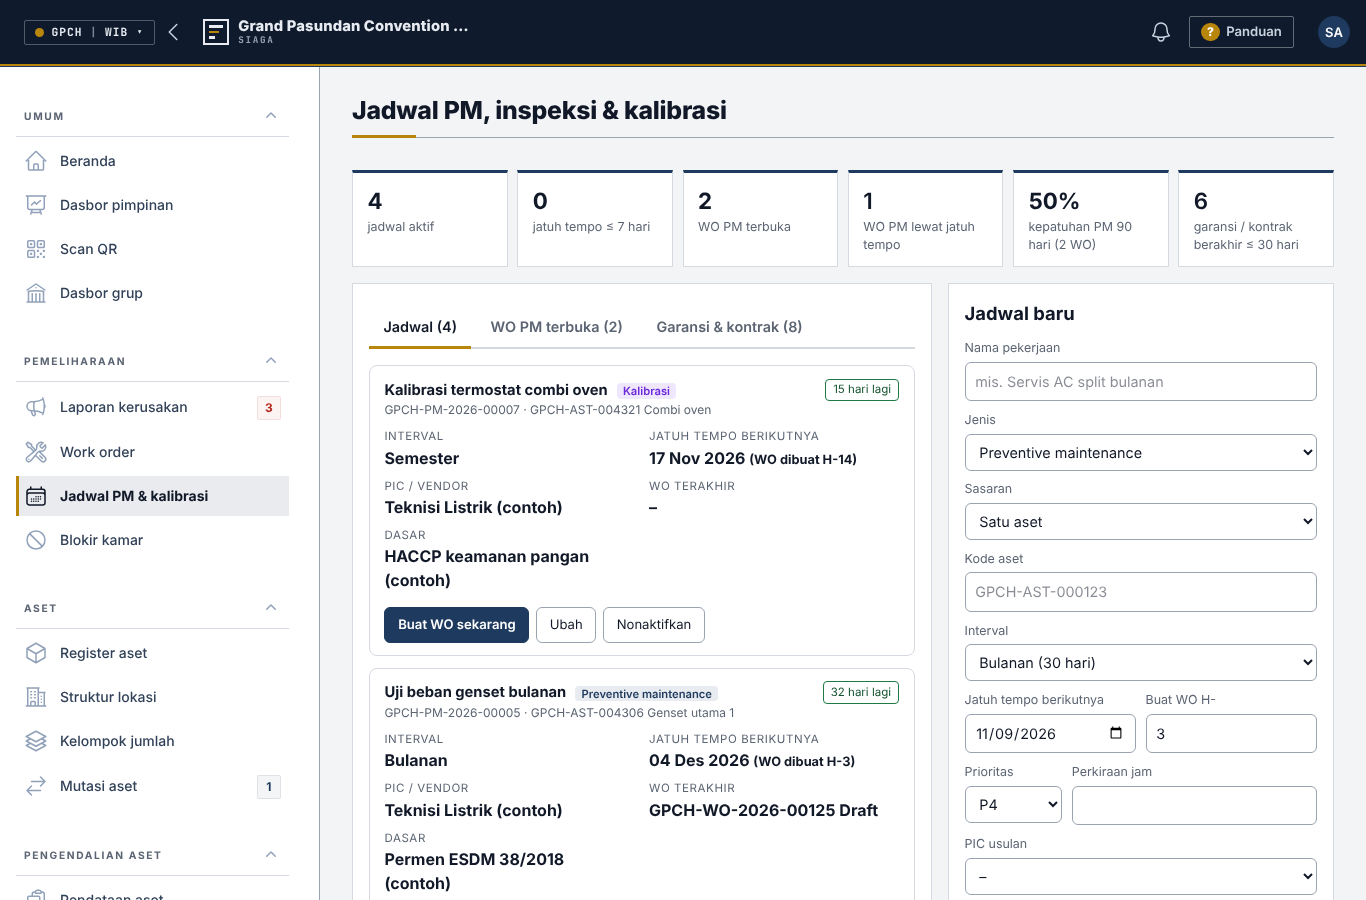
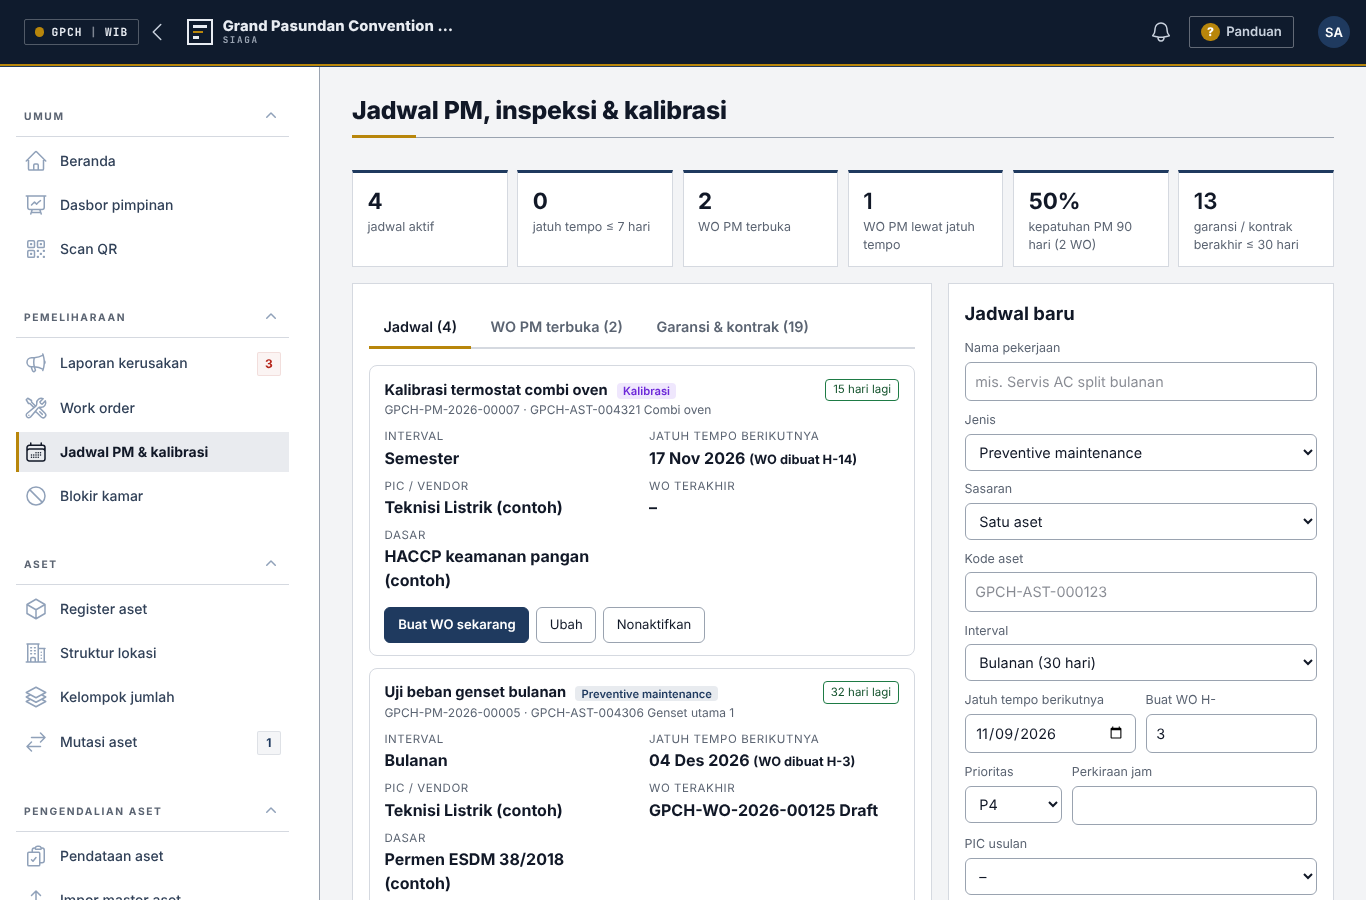
Landing page & panduan: fitur jadwal PM, penyusutan, stock opname, penghapusan, matriks lokasi, istilah per jenis usaha
Claude-Session: https://claude.ai/code/session_01B7oP2Fde9AGkim8Y5jbJ7W

diff --git a/public/css/landing.css b/public/css/landing.css
@@ -150,3 +150,4 @@ code { background: var(--bg2); padding: .1rem .35rem; border-radius: 4px; font-s
 .ln-tour-item.phone img { aspect-ratio: 9 / 15; object-position: top center; }
 .ln-tour-item figcaption { padding: .7rem .9rem; display: flex; flex-direction: column; gap: .15rem; }
 .ln-tour-item figcaption span { font-size: .85rem; color: var(--ink2); }
+.ln-small { font-size: .82rem; color: var(--ln-muted, #5b6472); margin-top: .5rem; font-family: ui-monospace, monospace; }

diff --git a/resources/views/landing/index.blade.php b/resources/views/landing/index.blade.php
@@ -77,8 +77,14 @@
                     'Blokir kamar diusulkan langsung dari work order, <b>dikonfirmasi Front Office</b>, dan dilepas setelah pekerjaan diverifikasi. Total <b>hari-kamar yang hilang</b> tampil di dasbor pimpinan.', 'help/img/room-blocks.png', 'Blokir kamar terkait perbaikan'],
                 ['Pimpinan memutuskan tanpa data', 'Laporan disusun manual, terlambat, dan angkanya tidak bisa ditelusuri. Tidak ada indikator baku seperti SLA, MTTR, atau backlog.',
                     '<b>Dasbor pimpinan</b> menampilkan kondisi A–E, aset berisiko dan nilai gantinya, SLA, MTTR, backlog, biaya per bulan, aset boros biaya, serta <b>sorotan otomatis</b>. Setiap angka bisa ditelusuri ke daftar sumbernya.', 'landing/dasbor.png', 'Dasbor pimpinan'],
+                ['Pemeliharaan baru dilakukan setelah rusak; kalibrasi dan garansi terlewat', 'Jadwal PM, inspeksi, dan kalibrasi ada di kepala orang atau di kalender pribadi. Tanggal habis garansi dan kontrak vendor tidak dipantau, sehingga klaim terlambat dan alat medis atau peralatan keselamatan lewat masa kalibrasi.',
+                    '<b>Jadwal PM, inspeksi & kalibrasi</b> per aset atau per kelompok (mis. semua detektor asap di satu lantai). Setiap pagi SIAGA <b>membuat work order otomatis</b> sebelum jatuh tempo, menghitung <b>kepatuhan PM</b>, dan mengingatkan <b>garansi & kontrak</b> H-30 dan H-7.', 'help/img/jadwal-pm.png', 'Jadwal PM, inspeksi & kalibrasi'],
+                ['Nilai buku aset tidak cocok dengan laporan keuangan', 'Penyusutan dihitung terpisah di spreadsheet keuangan, sementara register aset ada di bagian lain. Aset yang sudah rusak, hilang, atau dijual masih tercatat. Auditor menemukan selisih setiap tahun.',
+                    '<b>Penyusutan & nilai buku</b> (PSAK 16): garis lurus atau saldo menurun, masa manfaat per kategori, <b>usulan jurnal</b> per bulan, dan ekspor Excel daftar aset tetap. Filter per lokasi atau per badan usaha (PT).', 'help/img/penyusutan.png', 'Penyusutan & nilai buku'],
+                ['Aset hilang dari catatan tanpa jejak', 'Pemeriksaan fisik (stock opname) jarang tuntas karena dicocokkan manual. Aset rusak dibuang atau dijual tanpa persetujuan dan tanpa berita acara.',
+                    '<b>Stock opname</b> per lokasi dengan scan QR: ditemukan, pindah lokasi, tidak ditemukan, temuan baru, lalu <b>berita acara</b>. <b>Penghapusan aset</b> diusulkan dan disetujui orang yang berbeda, nilai buku dibekukan, laba-rugi pelepasan dihitung.', 'help/img/stock-opname.png', 'Stock opname dengan scan QR'],
                 ['Tidak jelas siapa mengubah apa', 'File dibagikan tanpa hak akses. Perubahan data tidak tercatat, sehingga sulit diaudit dan mudah disalahgunakan.',
-                    '<b>17 peran dan 36 izin</b> (tolak secara bawaan), <b>log audit</b> setiap perubahan, wajib ganti sandi, batas percobaan login, dan verifikasi dua langkah.', 'help/img/roles.png', 'Peran dan izin'],
+                    '<b>17 peran dan 41 izin</b> (tolak secara bawaan), <b>log audit</b> setiap perubahan, wajib ganti sandi, batas percobaan login, dan verifikasi dua langkah.', 'help/img/roles.png', 'Peran dan izin'],
             ];
         @endphp
         <div class="ln-psr">
@@ -189,6 +195,10 @@ window.addEventListener('DOMContentLoaded', function () {
                 ['landing/tur-lapor-hp.png', 'Lapor kerusakan', 'Pilih aset atau lokasi, tulis gejala, foto. Selesai.', 'phone'],
                 ['landing/tur-label.png', 'Cetak label QR', 'Langsung ke printer portable Bluetooth atau lembar A4.', 'wide'],
                 ['landing/dasbor-biaya.png', 'Biaya & dampak', 'Biaya per bulan, per kategori, dan hari-kamar yang hilang.', 'wide'],
+                ['help/img/struktur-lokasi-matriks.png', 'Matriks lokasi × jenis barang', 'Barang jenis apa ada di mana, per gedung, lantai, atau ruang.', 'wide'],
+                ['help/img/jadwal-pm.png', 'Jadwal PM & kalibrasi', 'WO otomatis sebelum jatuh tempo, kepatuhan PM, pengingat garansi.', 'wide'],
+                ['help/img/penyusutan.png', 'Penyusutan & nilai buku', 'Nilai buku per kategori, usulan jurnal, ekspor Excel.', 'wide'],
+                ['help/img/stock-opname.png', 'Stock opname', 'Hitung fisik per lokasi dengan scan QR, lalu berita acara.', 'wide'],
             ];
         @endphp
         <div class="ln-tour">
@@ -207,16 +217,17 @@ window.addEventListener('DOMContentLoaded', function () {
         <h2>Manfaat untuk setiap peran</h2>
         <div class="ln-grid ln-grid-4">
             <div class="ln-card"><h3>Pimpinan</h3><ul><li>Sorotan otomatis: aset berisiko, SLA, aset yang lebih murah diganti</li><li>Filter per gedung, rumah sakit, atau wilayah outlet</li><li>Cetak dasbor untuk rapat</li></ul></div>
-            <div class="ln-card"><h3>Engineering / IPSRS</h3><ul><li>Antrian kerja per prioritas dan target waktu</li><li>Riwayat lengkap tiap aset dari scan QR</li><li>Kerusakan berulang terlihat jelas</li></ul></div>
-            <div class="ln-card"><h3>Keuangan &amp; aset</h3><ul><li>Nilai aset dan biaya pemeliharaan per aset</li><li>Persetujuan biaya berjenjang sesuai batas</li><li>Mutasi aset tercatat dan bisa diaudit</li></ul></div>
+            <div class="ln-card"><h3>Engineering / IPSRS</h3><ul><li>Antrian kerja per prioritas dan target waktu</li><li>Riwayat lengkap tiap aset dari scan QR</li><li>Kerusakan berulang terlihat jelas</li><li>WO PM &amp; kalibrasi dibuat otomatis</li></ul></div>
+            <div class="ln-card"><h3>Keuangan &amp; aset</h3><ul><li>Nilai aset dan biaya pemeliharaan per aset</li><li>Persetujuan biaya berjenjang sesuai batas</li><li>Mutasi aset tercatat dan bisa diaudit</li><li>Penyusutan, stock opname &amp; penghapusan aset</li></ul></div>
             <div class="ln-card"><h3>Staf pelapor</h3><ul><li>Lapor dari HP dalam hitungan detik</li><li>Status laporan bisa dipantau</li><li>Tidak perlu pelatihan panjang</li></ul></div>
         </div>
         <h2 class="ln-mt">Satu aplikasi, beragam industri</h2>
         <div class="ln-grid ln-grid-3">
-            <div class="ln-card ln-ind"><h3>Hotel &amp; MICE</h3><p>Kamar per tipe, ruang meeting, kitchen, laundry, power house. Blokir kamar tidak terjual saat perbaikan.</p></div>
-            <div class="ln-card ln-ind"><h3>Rumah sakit</h3><p>Kamar rawat inap per kelas, IGD, ICU, NICU, bedah sentral, radiologi, hemodialisa. Alat medis, kalibrasi, gas medis.</p></div>
-            <div class="ln-card ln-ind"><h3>Apotek, klinik &amp; lab</h3><p>Puluhan outlet dengan isi standar per tipe, cold chain obat, POS kasir, alat klinik dan laboratorium.</p></div>
+            <div class="ln-card ln-ind"><h3>Hotel &amp; MICE</h3><p>Kamar per tipe, ruang meeting, kitchen, laundry, power house. Blokir kamar tidak terjual saat perbaikan.</p><p class="ln-small">Istilah: gedung › lantai › kamar · jenis kamar · blokir kamar</p></div>
+            <div class="ln-card ln-ind"><h3>Rumah sakit</h3><p>Kamar rawat inap per kelas, IGD, ICU, NICU, bedah sentral, radiologi, hemodialisa. Alat medis, kalibrasi, gas medis. Grup dengan beberapa PT pengelola RS.</p><p class="ln-small">Istilah: PT › RS › lantai › kamar · kelas perawatan · tutup kamar</p></div>
+            <div class="ln-card ln-ind"><h3>Apotek, klinik &amp; lab</h3><p>Puluhan outlet dengan isi standar per tipe, cold chain obat, POS kasir, alat klinik dan laboratorium.</p><p class="ln-small">Istilah: wilayah › rayon › outlet · format outlet · tutup outlet</p></div>
         </div>
+        <p class="ln-lead">Istilah di menu, layar, laporan, dan label QR mengikuti <b>jenis usaha</b> yang dipilih di profil perusahaan. Label outlet mencetak nama outlet, bukan "kamar". Setiap perusahaan atau grup hanya melihat datanya sendiri.</p>
     </div>
 </section>
 
@@ -231,10 +242,13 @@ window.addEventListener('DOMContentLoaded', function () {
                 <li>Praktik: lokasi, tipe kamar/ruang, template isi standar, impor master aset</li>
                 <li>Praktik lapangan: pendataan per kamar dengan Mobile Terminal &amp; printer portable</li>
                 <li>Cek kualitas data, selisih, dan aktivasi aset</li>
+                <li>Struktur lokasi &amp; matriks: barang jenis apa ada di mana</li>
             </ol></div>
             <div class="ln-card"><h3>Hari 2 · Operasi &amp; keputusan</h3><ol class="ln-agenda">
                 <li>Lapor kerusakan dari HP, triase, prioritas &amp; SLA</li>
                 <li>Work order: penugasan, persetujuan biaya, verifikasi, blokir kamar, mutasi aset</li>
+                <li>Jadwal PM, inspeksi &amp; kalibrasi; pengingat garansi dan kontrak</li>
+                <li>Penyusutan, stock opname &amp; penghapusan aset bersama keuangan dan auditor</li>
                 <li>Dasbor pimpinan &amp; laporan: membaca angka untuk keputusan perbaiki atau ganti</li>
                 <li>Rencana implementasi 8 minggu: organisasi, RACI, komunikasi, risiko, pengadaan</li>
                 <li>Rencana tindak lanjut di perusahaan peserta</li>

diff --git a/PANDUAN-LARAGON.md b/PANDUAN-LARAGON.md
@@ -109,6 +109,18 @@ Panduan rinci tiap layar ada di tombol **? Panduan** pojok kanan atas aplikasi.
 | `php artisan test` | Uji otomatis (butuh `composer install` dan database `asset_care_test`) |
 | `php artisan optimize:clear` | Bersihkan cache setelah mengubah `.env` |
 
+## Memperbarui ke rilis baru
+
+Ekstrak zip baru menimpa folder lama (`.env` tidak ikut tertimpa), lalu:
+
+```bash
+php artisan migrate --force
+php artisan db:seed --class=Database\Seeders\ReferenceSeeder --force
+php artisan optimize:clear
+```
+
+**Situs demo yang sudah berjalan:** setelah `update`, jalankan juga `php artisan siaga:demo-data all --force`. Perusahaan yang sudah ada tidak digandakan; contoh stock opname, penghapusan aset, jadwal PM, dan badan usaha (Hermina) ditambahkan. Perusahaan yang belum ada dipasang.
+
 ## 9. Masalah umum
 
 | Gejala | Solusi |
@@ -129,7 +141,7 @@ Untuk calon peserta workshop: pasang di **database terpisah khusus demo**, lalu 
 php artisan siaga:demo-data all
 ```
 
-Perintah ini memasang tiga perusahaan demo terpisah (GPCH, Hermina Group dengan RS Kemayoran & Bekasi, Kimia Farma dengan jaringan apotek & klinik), masing-masing 1–3 menit. Setelah itu set `SIAGA_GUEST_MODE=true` di `.env` dan jalankan `php artisan config:cache`. Halaman depan (`/`) menampilkan landing page, pilihan data demo, dan tombol **Masuk sebagai tamu** (hanya melihat). Panduan bisa dibaca tanpa login di `/panduan`. **Jangan aktifkan mode tamu pada instalasi berisi data asli.**
+Perintah ini memasang tiga perusahaan demo terpisah, masing-masing 1–3 menit, dengan istilah sesuai jenis usahanya: GPCH (hotel: gedung › lantai › kamar), Hermina Group (rumah sakit: 2 PT contoh › RS Kemayoran & Bekasi › lantai › kamar), dan Kimia Farma (ritel: wilayah › rayon › outlet). Setiap sesi hanya melihat data satu perusahaan atau grup. Setelah itu set `SIAGA_GUEST_MODE=true` di `.env` dan jalankan `php artisan config:cache`. Halaman depan (`/`) menampilkan landing page, pilihan data demo, dan tombol **Masuk sebagai tamu** (hanya melihat). Panduan bisa dibaca tanpa login di `/panduan`. **Jangan aktifkan mode tamu pada instalasi berisi data asli.**
 
 **Hanya Grand Pasundan (GPCH):** `php artisan siaga:demo-data gpch --admin`. Hermina dan Kimia Farma tidak dipasang, dan akun Super Admin dipindah ke GPCH agar langsung melihat datanya. Perintah ini otomatis mengisi `.env` (`SIAGA_GUEST_MODE=true`, `ASSETCARE_PROPERTY_CODE=GPCH`) dan memperbarui cache konfigurasi, sehingga kotak **Coba SIAGA tanpa akun** dengan pilihan perusahaan dan tombol **Masuk sebagai tamu** langsung tampil di atas form login. Data demo yang sudah terpasang cukup jalankan ulang perintahnya (data tidak digandakan).
 

diff --git a/PANDUAN-CPANEL.md b/PANDUAN-CPANEL.md
@@ -191,6 +191,8 @@ Panduan rinci tiap layar ada di tombol **? Panduan** pojok kanan atas aplikasi.
    ```
    Skrip ini akan memasang mode maintenance, menjalankan migrasi, memperbarui data referensi, membangun ulang cache, lalu menonaktifkan maintenance. Akun dan data tidak berubah.
 
+**Situs demo yang sudah berjalan:** setelah `update`, jalankan juga `php artisan siaga:demo-data all --force`. Perusahaan yang sudah ada tidak digandakan; contoh stock opname, penghapusan aset, jadwal PM, dan badan usaha (Hermina) ditambahkan. Perusahaan yang belum ada dipasang.
+
 ## Memulihkan dari backup
 
 ```bash
@@ -270,7 +272,7 @@ Untuk calon peserta workshop: pasang di **database terpisah khusus demo**, lalu 
 bash deploy/deploy-cpanel.sh demo-site
 ```
 
-Perintah ini memasang tiga perusahaan demo terpisah (GPCH, Hermina Group dengan RS Kemayoran & Bekasi, Kimia Farma dengan jaringan apotek & klinik), masing-masing 1–3 menit. Setelah itu set `SIAGA_GUEST_MODE=true` di `.env` dan jalankan `php artisan config:cache`. Halaman depan (`/`) menampilkan landing page, pilihan data demo, dan tombol **Masuk sebagai tamu** (hanya melihat). Panduan bisa dibaca tanpa login di `/panduan`. **Jangan aktifkan mode tamu pada instalasi berisi data asli.**
+Perintah ini memasang tiga perusahaan demo terpisah, masing-masing 1–3 menit, dengan istilah sesuai jenis usahanya: GPCH (hotel: gedung › lantai › kamar), Hermina Group (rumah sakit: 2 PT contoh › RS Kemayoran & Bekasi › lantai › kamar), dan Kimia Farma (ritel: wilayah › rayon › outlet). Setiap sesi hanya melihat data satu perusahaan atau grup. Setelah itu set `SIAGA_GUEST_MODE=true` di `.env` dan jalankan `php artisan config:cache`. Halaman depan (`/`) menampilkan landing page, pilihan data demo, dan tombol **Masuk sebagai tamu** (hanya melihat). Panduan bisa dibaca tanpa login di `/panduan`. **Jangan aktifkan mode tamu pada instalasi berisi data asli.**
 
 **Hanya Grand Pasundan (GPCH):** `bash deploy/deploy-cpanel.sh demo-gpch` (setara `php artisan siaga:demo-data gpch --admin`). Hermina dan Kimia Farma tidak dipasang, dan akun Super Admin dipindah ke GPCH agar langsung melihat datanya. Perintah ini otomatis mengisi `.env` (`SIAGA_GUEST_MODE=true`, `ASSETCARE_PROPERTY_CODE=GPCH`) dan memperbarui cache konfigurasi, sehingga kotak **Coba SIAGA tanpa akun** dengan pilihan perusahaan dan tombol **Masuk sebagai tamu** langsung tampil di atas form login. Data demo yang sudah terpasang cukup jalankan ulang perintahnya (data tidak digandakan).
 

diff --git a/README.md b/README.md
@@ -113,7 +113,7 @@ Halaman depan bisa diaktifkan tanpa mode tamu dengan `SIAGA_LANDING=true`.
 
 ## Uji otomatis
 
-`composer install` lalu `php artisan test` (database `asset_care_test`) — 32 skenario, termasuk istilah per jenis usaha, termasuk jadwal PM & pengingat garansi, penyusutan, stock opname & penghapusan aset, landing page & masuk sebagai tamu, dasbor pimpinan, pendataan, impor master, panduan, instalasi hotel baru,
+`composer install` lalu `php artisan test` (database `asset_care_test`) — 32 skenario, termasuk istilah per jenis usaha, jadwal PM & pengingat garansi, penyusutan, stock opname & penghapusan aset, landing page & masuk sebagai tamu, dasbor pimpinan, pendataan, impor master, panduan, instalasi hotel baru,
 Profil hotel (nama, warna, logo, zona waktu), kode properti terkunci, validasi warna, dan tidak ada sisa merek lama.
 
 ## Catatan teknis
